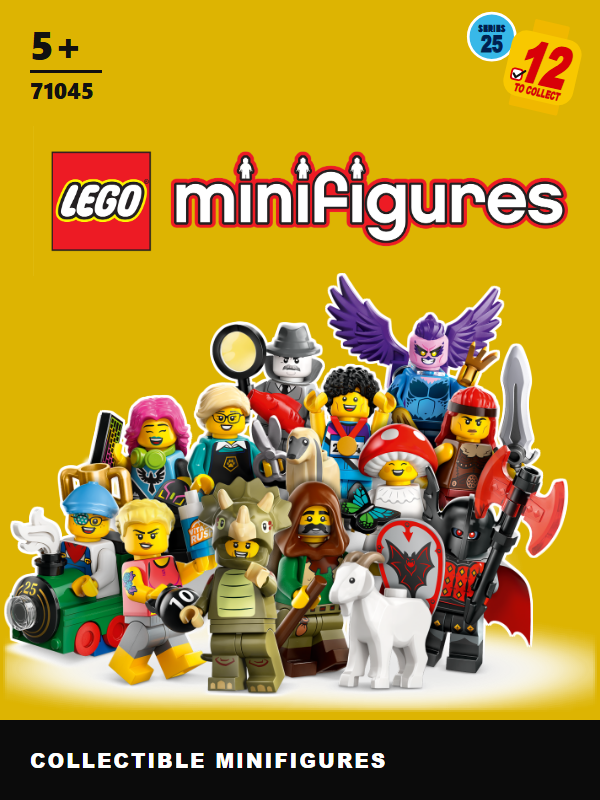
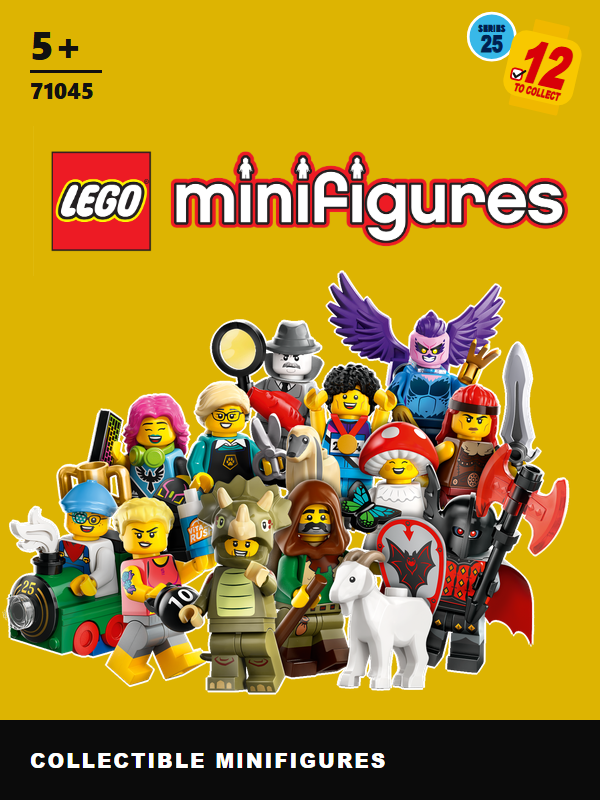
fix(V2-11): drop soft grey floor shadow/glow on 71037-71047 crowds

Changed region(s): [[0.0, 0.3438, 1.0, 0.9062]]

diff --git a/scripts/build_cards.py b/scripts/build_cards.py
@@ -153,10 +153,28 @@ def badge(number, count):
 </g></svg>"""
 
 
+# Official transparent crowd PNGs that keep a soft grey/white floor shadow and glow in their alpha. Owner round 2,
+# 2026-11-14: "71037 71038 71039 71045 71046 71047 all have shadow!". Measured 2026-11-14: 5-10 % of their pixels are
+# semi-transparent and grey (references 71009/71051: 1 %).
+SHADOW_DROP = {"71037", "71038", "71039", "71045", "71046", "71047"}
+SHADOW_ALPHA, SHADOW_SAT = 200, 30
+
+
+def drop_shadow(im):
+    """Clear semi-transparent, unsaturated pixels (the shadow and glow); coloured translucent parts stay."""
+    a = np.asarray(im).copy()
+    rgb = a[:, :, :3].astype(int)
+    sat = rgb.max(2) - rgb.min(2)
+    a[:, :, 3] = np.where((a[:, :, 3] < SHADOW_ALPHA) & (sat < SHADOW_SAT), 0, a[:, :, 3])
+    return Image.fromarray(a)
+
+
 def group_fit(sid, count):
     """Scale the crowd to FIG_TARGET and crop its sides to the card width at the emptiest columns.
     Returns (image, drawn width, drawn height, sides cut)."""
     im = Image.open(GROUP / f"{sid}.png").convert("RGBA")
+    if sid in SHADOW_DROP:
+        im = drop_shadow(im)
     w, h = im.size
     cut = False
     area = int((np.asarray(im)[:, :, 3] > 127).sum())
